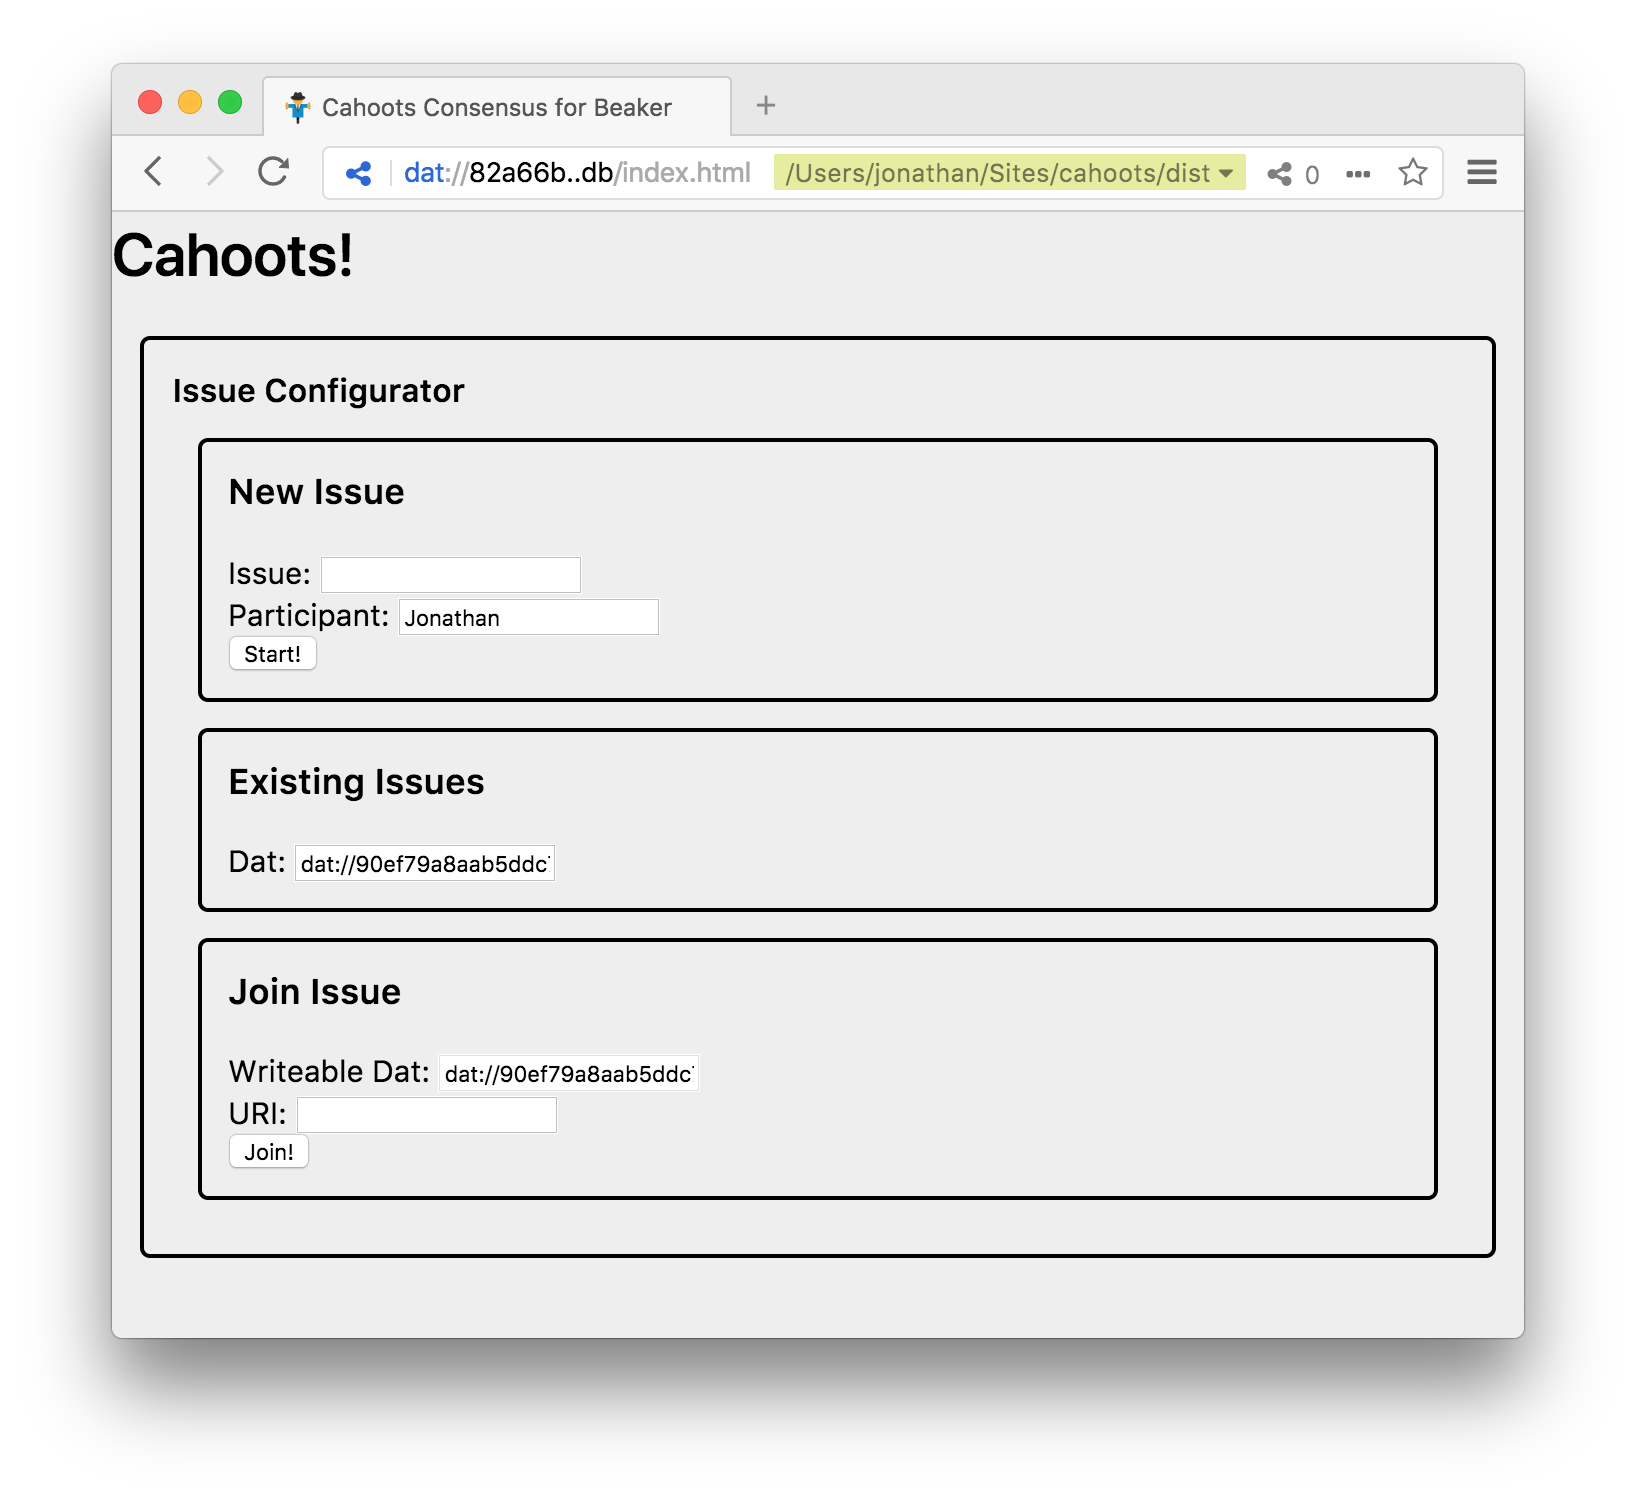
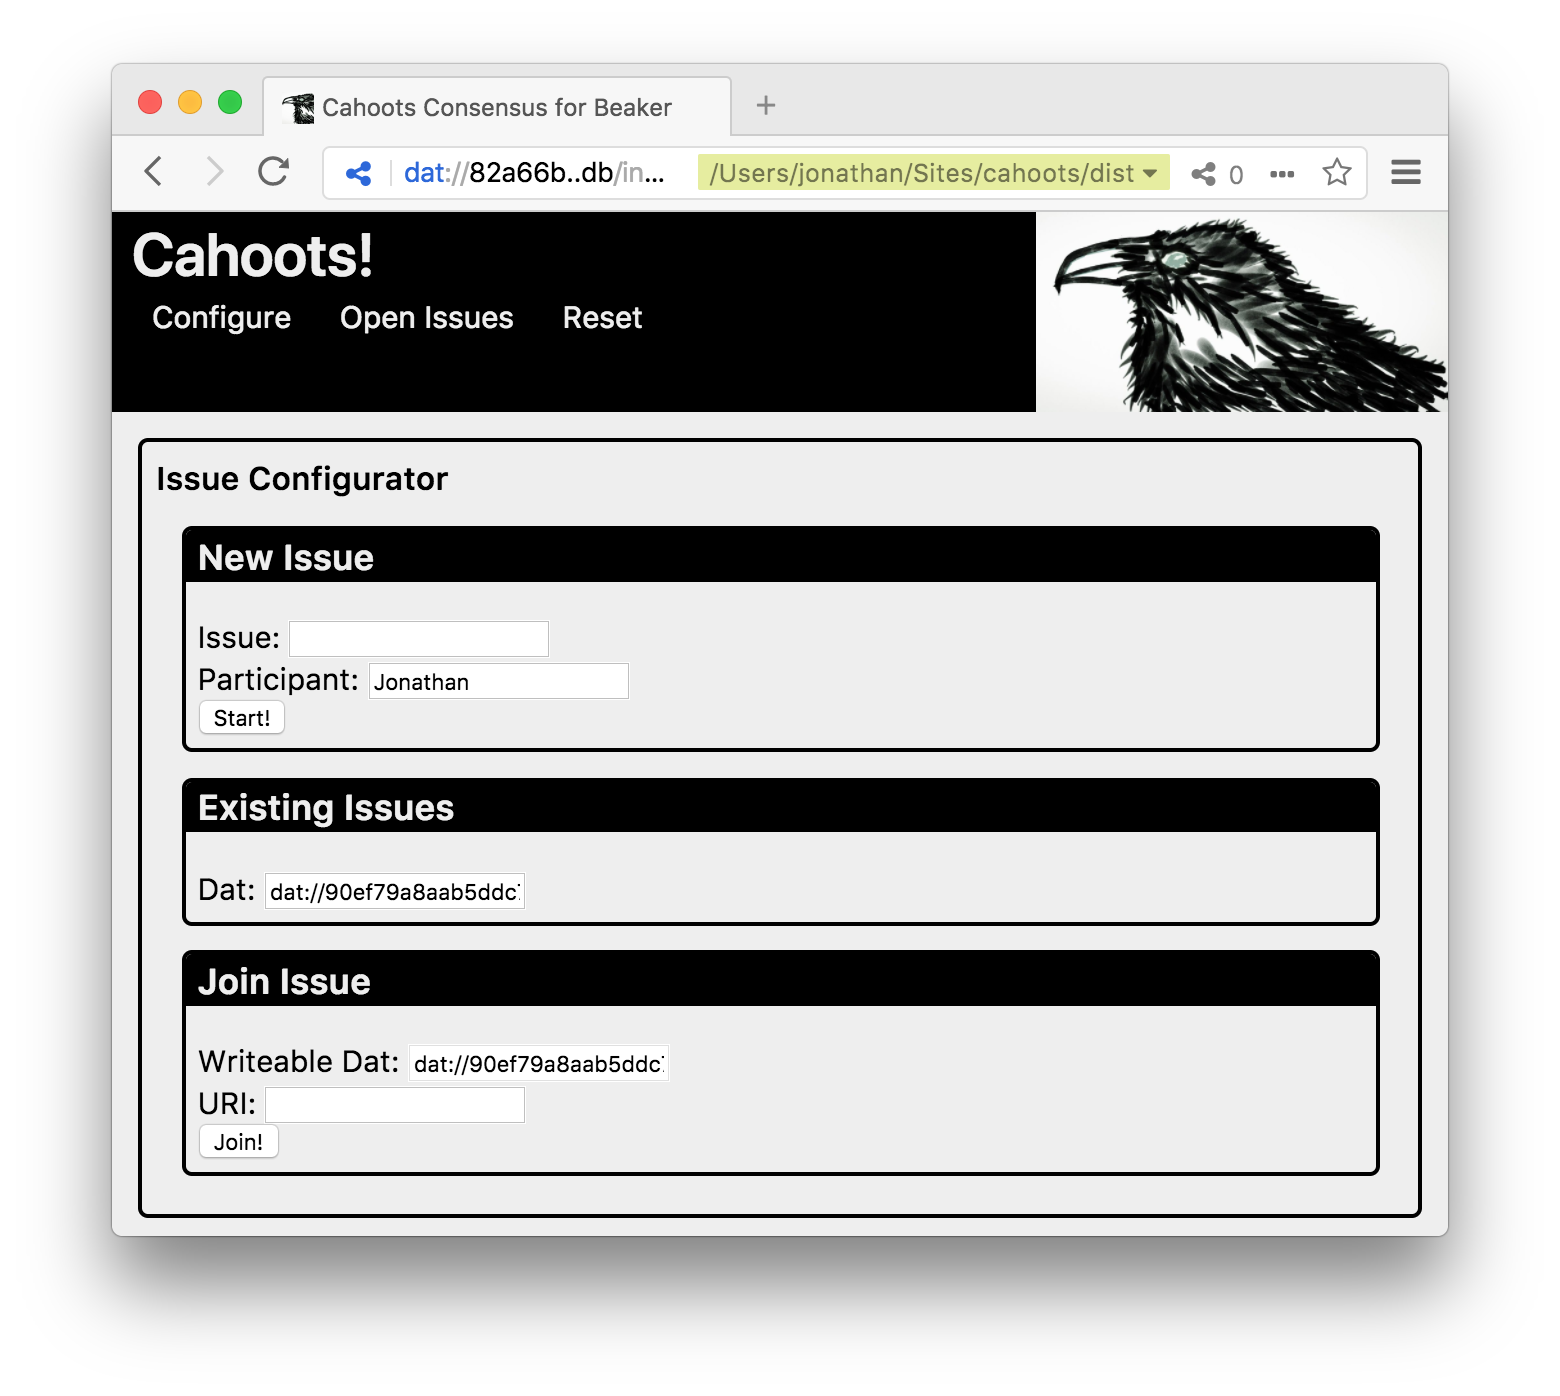
nav skeleton, raven, black headers

Changed region(s): [[0.0615, 0.0308, 0.9538, 0.8933]]

diff --git a/public/css/App.css b/public/css/App.css
@@ -1,3 +1,8 @@
+a {
+  color: #000;
+  text-decoration: none;
+}
+
 body {
   background: #eee;
   margin: 0;
@@ -13,51 +18,42 @@ h1, h2, h3, h4, h5, h6 {
   margin-top: 0;
 }
 
+h1 {
+  display: inline;
+  background: #000;
+  color: #eee;
+}
+
 h2 {
   font-size: 1rem;
 }
 
-button.proposeButton {
+h3 {
+  background: #000;
+  color: #eee;
+  margin-left: -10px;
+  margin-right: -10px;
+  margin-top: -10px;
+  padding-left: 10px;
+  padding-top: 5px;
+}
+
+h3 a {
+  color: #eee;
+}
+
+span.navButton {
+  background: #000;
+  color: #eee;
+  padding-left: 10px;
+  padding-right: 10px;
+}
+
+input.proposeButton {
 
 }
 
 div.chat {
-  border-style: solid;
-  border-radius: 5px;
-  border-color: #000;
-  border-width: 2px;
-  margin: 2%;
-  padding: 2%;
-}
-
-div.chatMessages {
-  border-style: solid;
-  border-radius: 2px;
-  border-color: #444;
-  border-width: 1px;
-  margin: 1%;
-  padding: 1%;
-}
-
-div.participant {
-  border-style: solid;
-  border-radius: 0px;
-  border-color: #444;
-  border-width: 1px;
-  margin: 1%;
-  padding: 0px;
-}
-
-div.participants {
-  border-style: solid;
-  border-radius: 5px;
-  border-color: #000;
-  border-width: 2px;
-  margin: 2%;
-  padding: 2%;
-}
-
-div.proposal {
   border-style: solid;
   border-radius: 5px;
   border-color: #000;
@@ -78,7 +74,7 @@ div.tally {
   border-width: 2px;
   margin: 2%;
   overflow: auto;
-  padding: 2%;
+  padding: 1%;
 }
 
 div.vote {
@@ -101,6 +97,13 @@ div.votes {
 
 form label {
   font-weight: bold;
+}
+
+header {
+  background: #000;
+  color: #eee;
+  overflow: auto;
+  padding-left: 10px;
 }
 
 textarea.freeFormText {

diff --git a/views/tally.js b/views/tally.js
@@ -11,7 +11,7 @@ exports.render = function render(tally) {
 
 function renderTally(tally) {
   const participants =
-    yo`<div className="participants" >
+    yo`<div className="tally" >
       <h3>Participants:</h3>
       ${tally.getParticipantNames().
         sort().
@@ -48,7 +48,7 @@ function renderTally(tally) {
           }
         })}</div>`;
   const proposal =
-    yo`<div className="proposal" >
+    yo`<div className="tally" >
       <h3>Proposal:</h3>
       <textarea className="freeFormText"
         id="proposalField"
@@ -67,7 +67,7 @@ function renderTally(tally) {
     </div>`;
 
   const messages =
-    yo`<div className="chat" >
+    yo`<div className="tally" >
       <h3>Chatter:</h3>
       <textarea className="freeFormText"
         onkeyup=${(e)=> {
@@ -88,7 +88,7 @@ function renderTally(tally) {
     </div>`;
 
   const invite =
-    yo`<div className="participants" >
+    yo`<div className="tally" >
         <h3><a href="${tally.getUrl()}">Invite:</a></h3>
         <form>
           <div>

diff --git a/views/index.js b/views/index.js
@@ -20,7 +20,21 @@ exports.render = function render(viewName) {
  */
 function renderHeader() {
   return yo`
-    <header><h1>Cahoots!</h1></header>
+    <header>
+
+      <h1>Cahoots!</h1>
+      <img src="raven.jpg" align="middle" height="100px" style="float:right;" />
+      <br/>
+      <span className="navButton" onclick=${() => console.log('Configure')} >
+        Configure
+      </span>
+      <span className="navButton" onclick=${() => console.log('Open Issues')} >
+        Open Issues
+      </span>
+      <span className="navButton" onclick=${() => console.log('Reset')} >
+        Reset
+      </span>
+    </header>
   `;
 }
 
